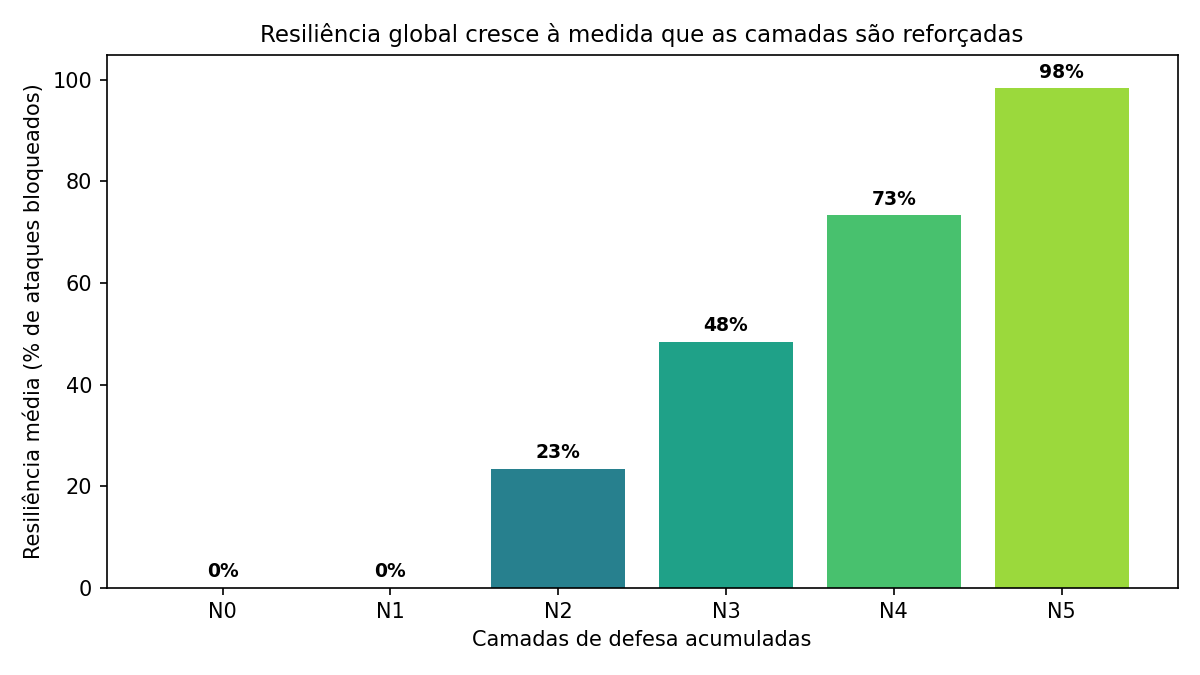
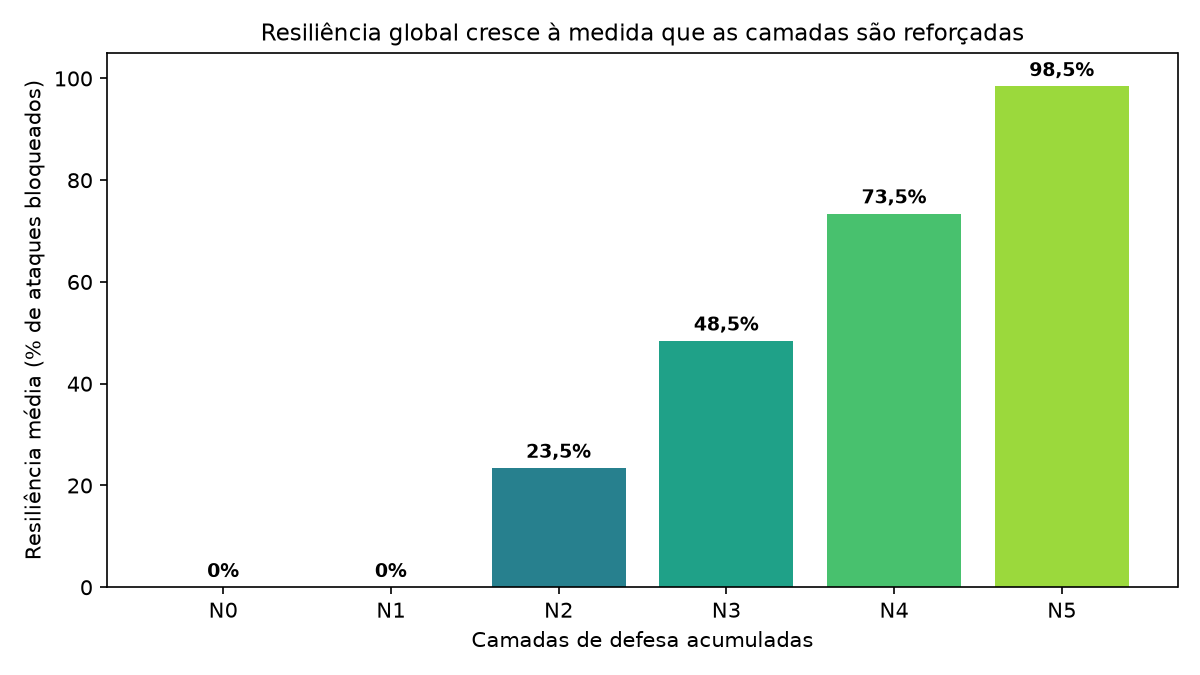
Corrige formatacao do heatmap para 93,8% (padrao BR)

diff --git a/src/ataques/graficos.py b/src/ataques/graficos.py
@@ -5,6 +5,16 @@ import matplotlib
 matplotlib.use("Agg")
 import matplotlib.pyplot as plt
 import numpy as np
+from decimal import Decimal, ROUND_HALF_UP
+
+
+def fmt_pct(v):
+    """Formata percentual no padrão BR: inteiros sem casa decimal (100%),
+    não-inteiros com uma casa e vírgula (93,8%). Arredonda meio para cima."""
+    q = Decimal(repr(round(float(v), 10))).quantize(Decimal("0.1"), rounding=ROUND_HALF_UP)
+    if q == q.to_integral_value():
+        return f"{int(q)}%"
+    return f"{q}%".replace(".", ",")
 
 BASE = os.path.join(os.path.dirname(__file__), "..", "..", "resultados")
 d = json.load(open(os.path.join(BASE, "resultados.json"), encoding="utf-8"))
@@ -26,7 +36,7 @@ ax.set_yticks(range(len(niveis)))
 ax.set_yticklabels(rotulos_niveis)
 for i in range(len(niveis)):
     for j in range(len(ataques)):
-        ax.text(j, i, f"{matriz[i, j]:.0f}%", ha="center", va="center",
+        ax.text(j, i, fmt_pct(matriz[i, j]), ha="center", va="center",
                 color="black", fontsize=10, fontweight="bold")
 ax.set_title("Taxa de bloqueio de acessos indevidos por camada de defesa",
              fontsize=11, pad=12)
@@ -48,7 +58,7 @@ ax.set_xlabel("Camadas de defesa acumuladas")
 ax.set_title("Resiliência global cresce à medida que as camadas são reforçadas",
              fontsize=11)
 for b, v in zip(barras, media_por_nivel):
-    ax.text(b.get_x() + b.get_width() / 2, v + 2, f"{v:.0f}%",
+    ax.text(b.get_x() + b.get_width() / 2, v + 2, fmt_pct(v),
             ha="center", fontsize=9, fontweight="bold")
 plt.tight_layout()
 plt.savefig(os.path.join(os.path.dirname(__file__), "..", "..", "docs", "figuras", "fig2_resiliencia.png"), dpi=150)
